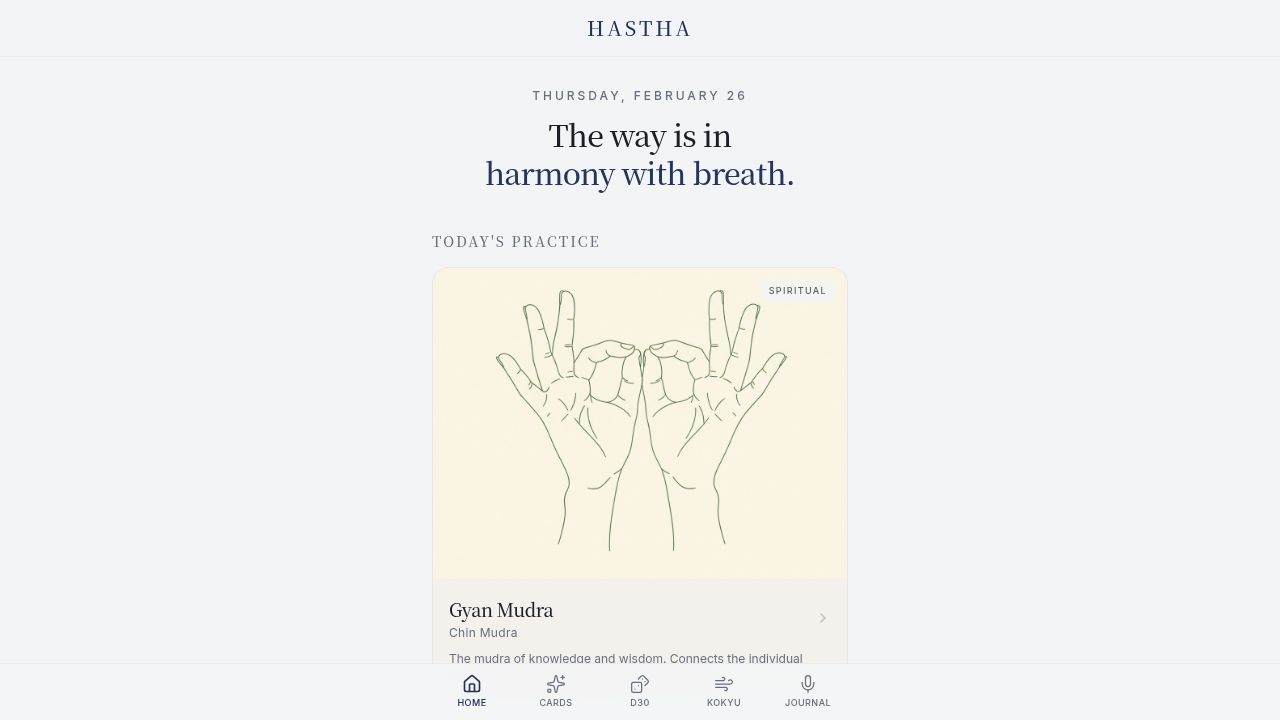
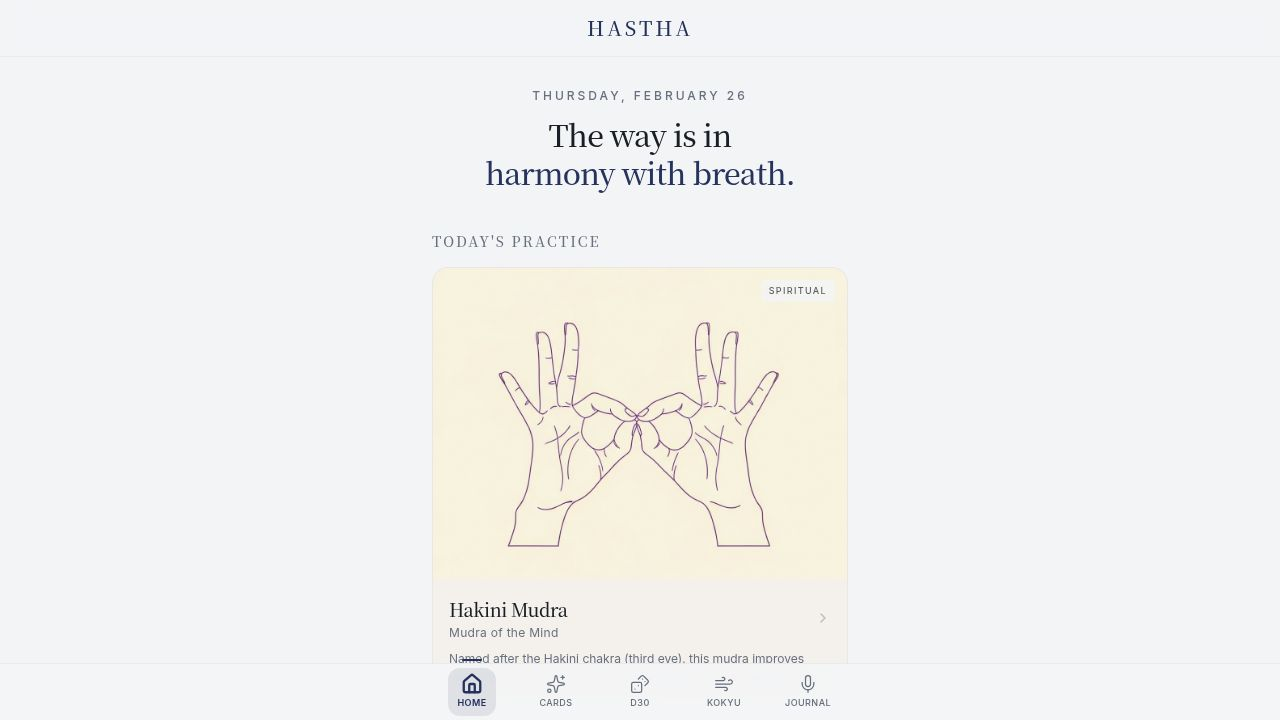
Improve menu navigation to clearly indicate the active section
Update the navigation component to provide more distinct visual cues for the active menu item, including background highlighting, a top indicator bar, and bolder text.

Replit-Commit-Author: Agent
Replit-Commit-Session-Id: 47a25048-172a-4b0e-a1c5-42eafa79980c
Replit-Commit-Checkpoint-Type: full_checkpoint
Replit-Commit-Event-Id: 41dd92fa-3ec8-4a47-86d3-0f0ef921306c
Replit-Commit-Screenshot-Url: https://storage.googleapis.com/screenshot-production-us-central1/68716713-2074-42c7-ad7d-4be60a2e7a4c/47a25048-172a-4b0e-a1c5-42eafa79980c/jpc4J1j
Replit-Helium-Checkpoint-Created: true

diff --git a/client/src/components/Layout.tsx b/client/src/components/Layout.tsx
@@ -31,11 +31,16 @@ export default function Layout({ children }: { children: React.ReactNode }) {
             const isActive = location === item.href;
             return (
               <Link key={item.href} href={item.href} className={cn(
-                  "flex flex-col items-center justify-center gap-0.5 transition-colors duration-300 w-12",
-                  isActive ? "text-primary" : "text-muted-foreground hover:text-foreground"
+                  "relative flex flex-col items-center justify-center gap-0.5 transition-all duration-300 w-12 py-1.5 rounded-lg",
+                  isActive
+                    ? "text-primary bg-primary/10"
+                    : "text-muted-foreground hover:text-foreground"
                 )}>
-                  <item.icon className="w-5 h-5" strokeWidth={isActive ? 2 : 1.5} />
-                  <span className="text-[9px] font-medium tracking-wider uppercase">{item.label}</span>
+                  {isActive && (
+                    <span className="absolute -top-[9px] left-1/2 -translate-x-1/2 w-5 h-0.5 rounded-full bg-primary" />
+                  )}
+                  <item.icon className={cn("w-5 h-5 transition-transform duration-300", isActive && "scale-110")} strokeWidth={isActive ? 2.5 : 1.5} />
+                  <span className={cn("text-[9px] tracking-wider uppercase", isActive ? "font-bold" : "font-medium")}>{item.label}</span>
               </Link>
             );
           })}
